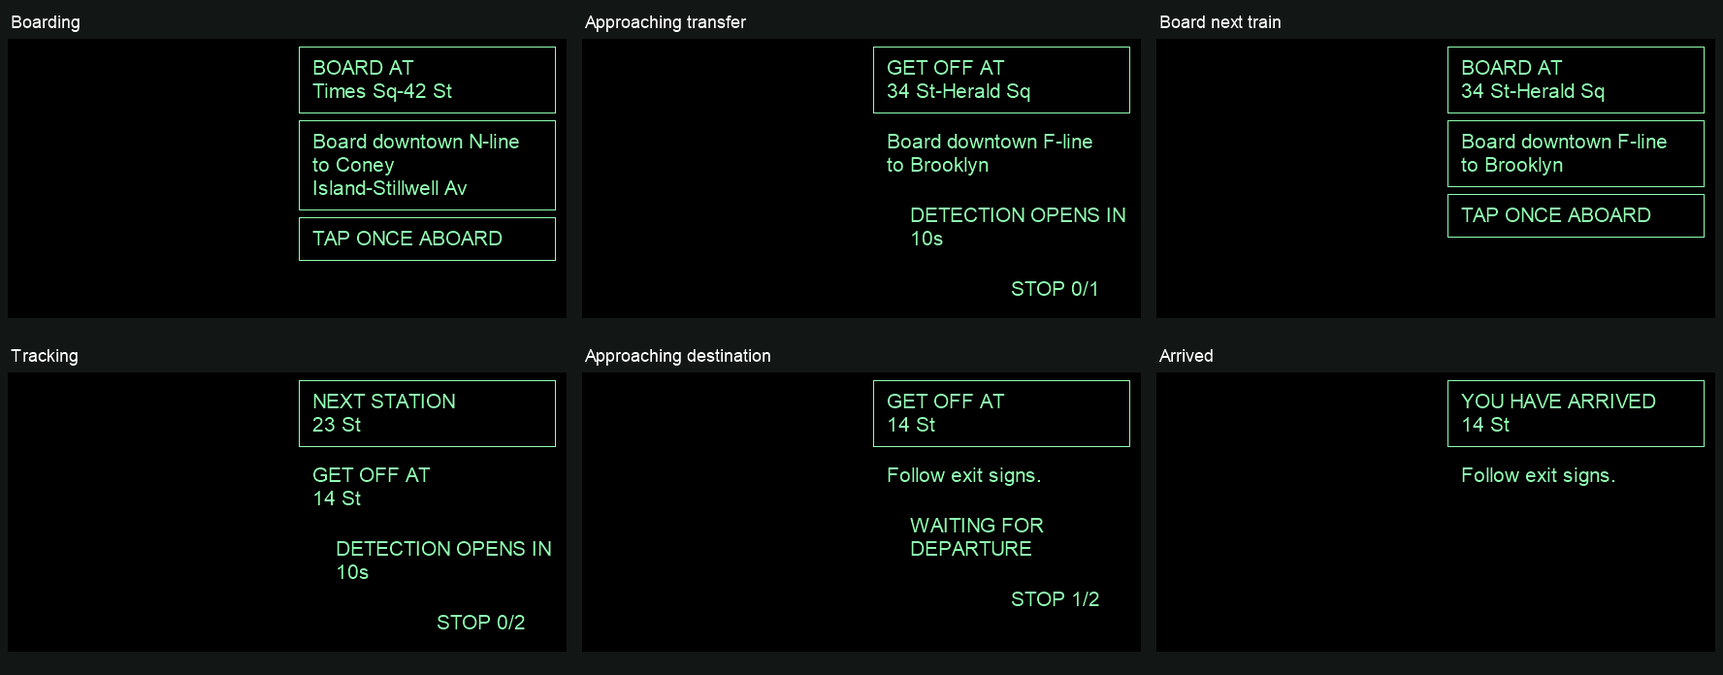
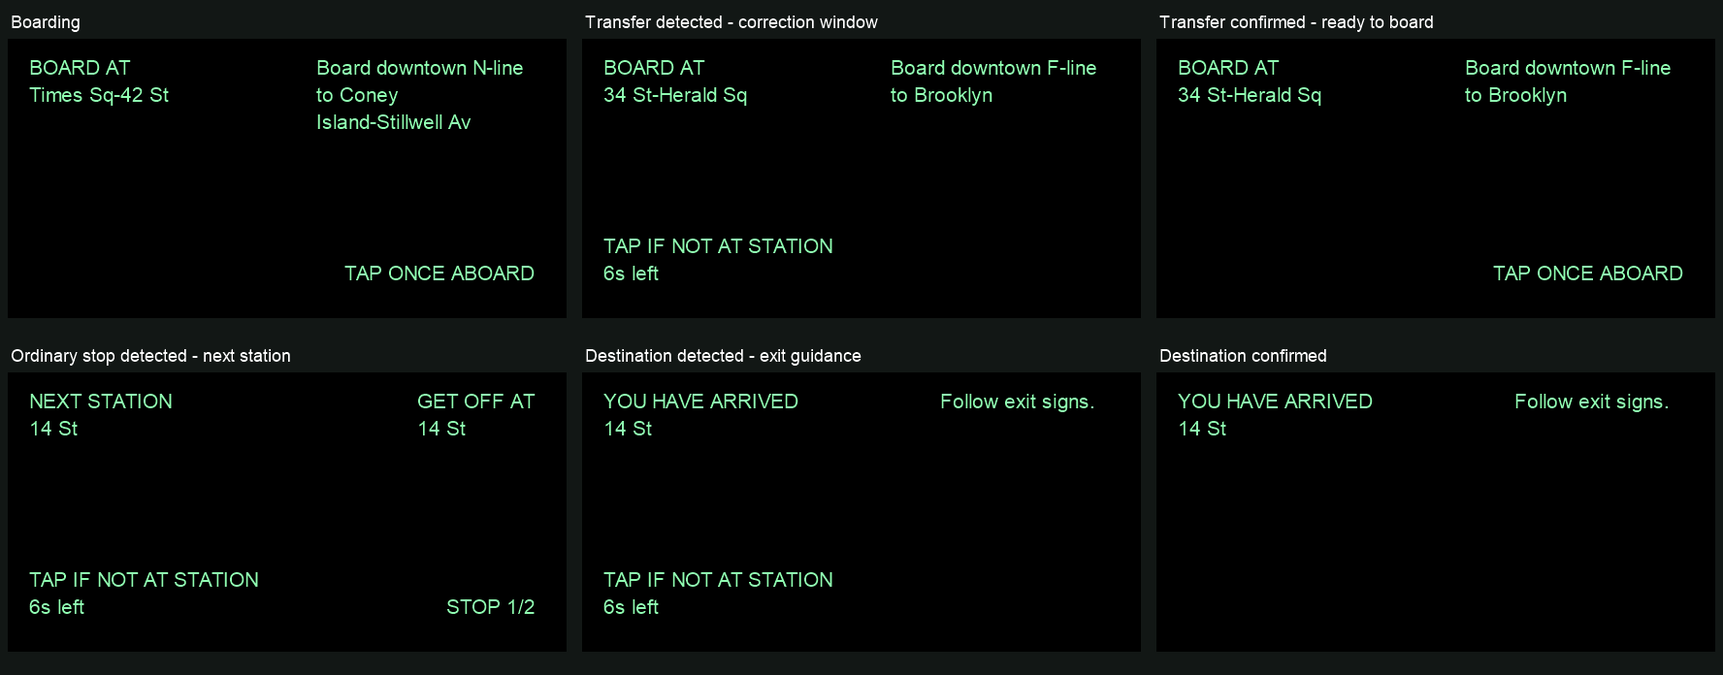
ui v.2

diff --git a/src/glasses-view.ts b/src/glasses-view.ts
@@ -1,5 +1,5 @@
 import type { StationTracker } from './station-tracker.ts'
-import { journeyView } from './journey-view.ts'
+import { journeyPresentation } from './journey-view.ts'
 
 export type GlassesPanel = {
   containerID: number; containerName: string; xPosition: number; yPosition: number
@@ -9,8 +9,22 @@ export type GlassesPanel = {
 
 // Native font metrics are not exposed by the SDK. Keep this line-height estimate
 // shared with the preview; hardware checks may require adjusting it.
-export const glassesSpacing = { padding: 10, lineHeight: 24, gap: 8, margin: 8 }
-type PanelSpec = { id: number; name: string; content: string; framed?: boolean; x?: number; width?: number; columns?: number; maxLines: number }
+export const glassesSpacing = { padding: 10, lineHeight: 28, margin: 8, verticalClearance: 12, horizontalClearance: 8 }
+type Corner = 'top-left' | 'top-right' | 'bottom-left' | 'bottom-right'
+
+let measurementContext: CanvasRenderingContext2D | null | undefined
+function textWidth(line: string) {
+  if (measurementContext === undefined) {
+    measurementContext = typeof document === 'undefined' ? null : document.createElement('canvas').getContext('2d')
+    if (measurementContext) measurementContext.font = '21px Arial'
+  }
+  // Normalize digits so a ticking countdown does not move as digit widths change.
+  const stable = line.replace(/\d/g, '0')
+  if (measurementContext) return measurementContext.measureText(stable).width
+  // Deterministic approximation for non-browser previews/tests. Native G2 glyph
+  // widths are unavailable; canvas measurements also need checking on hardware.
+  return [...stable].reduce((sum, c) => sum + (/\s/.test(c) ? 6 : /[ilI.,:;!'|]/.test(c) ? 6 : /[mwMW@%]/.test(c) ? 20 : /[A-Z]/.test(c) ? 15 : 12), 0)
+}
 
 function fitLines(text: string, columns: number, maxLines: number) {
   const lines = text.split('\n').flatMap(line => wrap(line, columns, 30).split('\n'))
@@ -20,27 +34,20 @@ function fitLines(text: string, columns: number, maxLines: number) {
   return kept
 }
 
-// Pack boxes vertically using wrapped content plus equal padding on every side.
-// Reserve space for station, status and count first; shorten supporting details
-// when a long instruction would otherwise extend beyond the physical canvas.
-function stack(specs: PanelSpec[]): GlassesPanel[] {
-  const { padding, lineHeight, gap, margin } = glassesSpacing
-  const lines = specs.map(s => fitLines(s.content, s.columns ?? 21, s.maxLines))
-  const availableLines = Math.floor((288 - 2 * margin - (specs.length - 1) * gap - specs.length * padding * 2) / lineHeight)
-  const detail = specs.findIndex(s => s.name === 'trip-detail')
-  const excess = lines.reduce((total, value) => total + value.length, 0) - availableLines
-  if (excess > 0 && detail >= 0) {
-    lines[detail] = fitLines(specs[detail].content, specs[detail].columns ?? 21, Math.max(1, lines[detail].length - excess))
-  }
-  let y = margin
-  return specs.map((s, i) => {
-    const height = lines[i].length * lineHeight + padding * 2
-    const p: GlassesPanel = { containerID: s.id, containerName: s.name, xPosition: s.x ?? 300, yPosition: y,
-      width: s.width ?? 264, height, borderWidth: s.framed ? 1 : 0, borderColor: s.framed ? 15 : 0,
-      borderRadius: s.framed ? 8 : 0, paddingLength: padding, isEventCapture: 0, content: lines[i].join('\n') }
-    y += height + gap
-    return p
-  })
+// Anchor the text block to an outer edge, rather than anchoring the top-left
+// corner of a large fixed region. Keep extra space for native font differences.
+function corner(id: number, name: string, anchor: Corner, content: string, maxLines?: number): GlassesPanel {
+  const top = anchor.startsWith('top'), right = anchor.endsWith('right')
+  const progress = name === 'trip-progress'
+  const { padding, lineHeight, margin, verticalClearance, horizontalClearance } = glassesSpacing
+  const lines = fitLines(content, progress ? 11 : 21, maxLines ?? (progress ? 1 : top ? 3 : 2))
+  const height = lines.length * lineHeight + 2 * padding + verticalClearance
+  const width = right ? Math.min(264, Math.ceil(Math.max(...lines.map(textWidth))) + 2 * padding + horizontalClearance) : 264
+  return { containerID: id, containerName: name,
+    xPosition: right ? 576 - margin - width : margin, yPosition: top ? margin : 288 - margin - height,
+    width, height,
+    borderWidth: 0, borderColor: 0, borderRadius: 0, paddingLength: glassesSpacing.padding, isEventCapture: 0,
+    content: lines.join('\n') }
 }
 export const glassesLayoutKey = (panels: GlassesPanel[]) => JSON.stringify(panels.map(({ content: _content, ...geometry }) => geometry))
 const seconds = (ms: number) => `${Math.max(0, Math.ceil(ms / 1000))}s`
@@ -61,48 +68,47 @@ function wrap(text: string, width: number, maxLines: number) {
 export function glassesView(tracker: StationTracker, now: number, diagnostic = 'IMU explorer\nLoad a route on your phone'): GlassesPanel[] {
   // Firmware can scroll an overflowing event-capture text container. Capture
   // gestures in an empty layer instead, keeping every visible label static.
-  const input: GlassesPanel = { containerID: 6, containerName: 'trip-input', xPosition: 300, yPosition: 0,
-    width: 264, height: 288, borderWidth: 0, borderColor: 0, borderRadius: 0, paddingLength: 0, isEventCapture: 1, content: ' ' }
+  const input: GlassesPanel = { containerID: 6, containerName: 'trip-input', xPosition: 0, yPosition: 0,
+    width: 576, height: 288, borderWidth: 0, borderColor: 0, borderRadius: 0, paddingLength: 0, isEventCapture: 1, content: ' ' }
   return [input, ...journeyPanels(tracker, now, diagnostic)]
 }
 
 function journeyPanels(tracker: StationTracker, now: number, diagnostic: string): GlassesPanel[] {
-  const journey = journeyView(tracker)
-  if (tracker.state === 'idle') return stack([
-    { id: 1, name: 'trip-station', content: `GLASSES IMU\n${diagnostic}`, maxLines: 3, framed: true },
-    { id: 3, name: 'trip-detail', content: 'Plan a journey on your phone.', maxLines: 4 },
-    { id: 4, name: 'trip-action', content: 'TAP: MARK RECORDING', maxLines: 1 },
-  ])
-  if (tracker.canArm) return stack([
-    { id: 1, name: 'trip-station', content: `BOARD AT\n${journey.boarding.station}`, maxLines: 3, framed: true },
-    { id: 3, name: 'trip-detail', content: journey.boarding.train, maxLines: 5, framed: true },
-    { id: 4, name: 'trip-action', content: 'TAP ONCE ABOARD', maxLines: 1, framed: true },
-  ])
-  if (tracker.state === 'complete') return stack([
-    { id: 1, name: 'trip-station', content: `YOU HAVE ARRIVED\n${tracker.route[tracker.stationIndex]?.name ?? ''}`, maxLines: 4, framed: true },
-    { id: 3, name: 'trip-detail', content: 'Follow exit signs.', maxLines: 1 },
-  ])
+  const display = journeyPresentation(tracker), journey = display.journey
+  const correction = `${fitLines(`TAP IF NOT AT ${display.current?.name ?? 'this station'}`, 21, 2).join('\n')}\n${seconds((tracker.candidateUntil ?? now) - now)} left`
+  if (tracker.state === 'idle') return [
+    corner(1, 'trip-station', 'top-left', `GLASSES IMU\n${diagnostic}`),
+    corner(3, 'trip-detail', 'top-right', 'Plan a journey on your phone.'),
+    corner(4, 'trip-action', 'bottom-right', 'TAP: MARK RECORDING'),
+  ]
+  if (display.canArm) return [
+    corner(1, 'trip-station', 'top-left', `BOARD AT\n${journey.boarding.station}`),
+    corner(3, 'trip-detail', 'top-right', journey.boarding.train),
+    corner(4, 'trip-action', display.pending ? 'bottom-left' : 'bottom-right', display.pending ? correction : 'TAP ONCE ABOARD', display.pending ? 3 : 2),
+  ]
+  if (display.state === 'complete') return [
+    corner(1, 'trip-station', 'top-left', `YOU HAVE ARRIVED\n${display.current?.name ?? ''}`),
+    corner(3, 'trip-detail', 'top-right', 'Follow exit signs.'),
+    ...(display.pending ? [corner(4, 'trip-action', 'bottom-left', correction, 3)] : []),
+  ]
   let action = ''
   switch (tracker.state) {
     case 'waiting-departure': action = 'WAITING FOR DEPARTURE'; break
     case 'travelling': action = `DETECTION OPENS IN ${seconds((tracker.watchAt ?? now) - now)}`; break
     case 'arrival-watch':
       action = tracker.brakingPhase === 'waiting for jolt' ? 'WAITING FOR JOLT'
-        : tracker.brakingPhase === 'allowing motion to settle' ? 'MOTION SETTLING' : 'WAITING FOR QUIET'; break
-    case 'candidate': action = `TAP TO VETO / ${seconds((tracker.candidateUntil ?? now) - now)}`; break
-    case 'cooldown': action = `${tracker.cooldownReason === 'Arrival vetoed' ? 'VETOED / ' : ''}RETRY IN ${seconds(tracker.retryAfter - now)}`; break
+        : tracker.brakingPhase === 'allowing motion to settle' ? 'MOTION SETTLING' : 'WAITING TO STOP'; break
+    case 'candidate': action = correction; break
+    case 'cooldown': action = `${tracker.cooldownReason === 'Arrival vetoed' ? 'RESET / ' : ''}RETRY IN ${seconds(tracker.retryAfter - now)}`; break
   }
-  if (tracker.sensing && now - tracker.lastValidAt > 1500) action = 'WAITING FOR PHONE MOTION'
-  const station = tracker.nextStop?.name ?? journey.destination
-  const title = journey.approaching ? 'GET OFF AT' : tracker.state === 'candidate' ? 'CONFIRM ARRIVAL' : 'NEXT STATION'
-  const detail = journey.approaching ? journey.instruction
-    : `${journey.transfer ? 'TRANSFER AT' : 'GET OFF AT'}\n${journey.destination}`
-  return stack([
-    { id: 1, name: 'trip-station', content: `${title}\n${station}`, maxLines: 3, framed: true },
-    { id: 3, name: 'trip-detail', content: detail, maxLines: journey.approaching ? 5 : 3 },
-    { id: 4, name: 'trip-action', content: action, maxLines: 2, x: 324, width: 240, columns: 20 },
-    { id: 5, name: 'trip-progress', content: `STOP ${journey.stopNumber}/${journey.stopTotal}`, maxLines: 1, x: 428, width: 136, columns: 10 },
-  ])
+  if (!display.pending && tracker.sensing && now - tracker.lastValidAt > 1500) action = 'WAITING FOR PHONE MOTION'
+  const station = display.nextStop?.name ?? journey.destination
+  return [
+    corner(1, 'trip-station', 'top-left', `NEXT STATION\n${station}`),
+    corner(3, 'trip-detail', 'top-right', `GET OFF AT\n${journey.destination}`),
+    corner(4, 'trip-action', 'bottom-left', action, display.pending ? 3 : 2),
+    corner(5, 'trip-progress', 'bottom-right', `STOP ${journey.stopNumber}/${journey.stopTotal}`),
+  ]
 }
 
 export function renderGlassesPreview(svg: SVGSVGElement, panels: GlassesPanel[]) {

diff --git a/src/trip-ui.ts b/src/trip-ui.ts
@@ -4,7 +4,6 @@ import { tripStatus } from './trip-status'
 import { mountPlannerControls } from './planner-ui'
 import { routeTextFromPlan } from './trip-plan'
 import { glassesView, renderGlassesPreview } from './glasses-view'
-import { journeyView } from './journey-view'
 
 // Fixed NYC demonstration; durations are simulated, not MTA schedules.
 const exampleRoute = (seconds: number) => `Times Sq-42 St | 0 | Board downtown N-line to Coney Island-Stillwell Av\n34 St-Herald Sq | ${seconds} | Board downtown F-line to Brooklyn | transfer\n23 St | ${seconds} | Stay on the F train\n14 St | ${seconds} | Follow exit signs`
@@ -31,15 +30,15 @@ export function mountTripControls(tracker: StationTracker, now: () => number, on
     <label>Braking sustained motion (seconds) <input id="trip-motionSeconds" type="number" min="0.1" max="10" step="0.1" value="${defaultSettings.motionSeconds}"></label>
     <label>Settling time (seconds) <input id="trip-settlingSeconds" type="number" min="0" max="3" step="0.1" value="${defaultSettings.settlingSeconds}"></label>
     <label>Quiet dwell (seconds) <input id="trip-dwellSeconds" type="number" min="0.2" max="30" step="0.05" value="${defaultSettings.dwellSeconds}"></label>
-    <label>Veto period (seconds) <input id="trip-vetoSeconds" type="number" min="1" max="30" step="1" value="${defaultSettings.vetoSeconds}"></label>
+    <label>Correction window (seconds) <input id="trip-vetoSeconds" type="number" min="1" max="30" step="1" value="${defaultSettings.vetoSeconds}"></label>
     </div></details><button id="trip-load">Load route, then tap glasses to start</button></fieldset>
-    <p class="hint">Arrival inputs stay blocked until 90% of the expected segment duration has elapsed. Then a jolt, settling, and quiet dwell can propose an arrival. Short demo: 0.35 m/s² for 0.4 seconds, 0.3 seconds to settle, then acceleration at or below 0.25 m/s² for 0.25 seconds. No recoil is required. During the veto countdown, shifting or other phone motion does not cancel the proposal; tap to veto. Quiet readings do not measure train speed.</p>
+    <p class="hint">Arrival inputs stay blocked until 90% of the expected segment duration has elapsed. Then a jolt, settling, and quiet dwell can propose an arrival. Short demo: 0.35 m/s² for 0.4 seconds, 0.3 seconds to settle, then acceleration at or below 0.25 m/s² for 0.25 seconds. No recoil is required. Directions advance immediately when a stop is detected. During the correction window, tap if not at station to restore your previous position. Shifting or other phone motion does not reset it. Quiet readings do not measure train speed.</p>
     <div class="controls"><button id="trip-arm" disabled>Start tracking (or tap glasses)</button><button id="trip-stop" disabled>Stop tracking</button>
-    <button id="trip-depart" disabled>Mark departure now</button><button id="trip-veto" disabled>Veto arrival</button></div>
+    <button id="trip-depart" disabled>Mark departure now</button><button id="trip-veto" disabled>Not at station</button></div>
     <p id="trip-error" role="alert"></p><p id="trip-start-hint" role="status"></p><p id="trip-status" role="status"></p><p id="trip-instruction" role="status"></p><p id="trip-timing"></p><p id="trip-evidence" class="hint"></p>
     <details open><summary>Glasses layout preview</summary><svg id="glasses-preview" viewBox="0 0 576 288" role="img" aria-label="Live glasses layout preview" style="display:block;width:100%;max-width:720px;border-radius:12px;margin:12px auto"></svg><p class="hint">Live layout preview. Font appearance may differ on G2.</p></details>
     <div class="controls"><label>Correct current station <select id="trip-correction" disabled></select></label><button id="trip-correct" disabled>Set current station</button></div>
-    <p class="hint">After a correction to a transfer station, board the next train and tap. At ordinary stops, wait for departure or use Mark departure now if already moving. Veto pauses detection for 10 seconds. Arrival instructions remain visible until the next departure. At the destination, the exit instruction stays on screen.</p>
+    <p class="hint">After a correction to a transfer station, board the next train and tap. At ordinary stops, wait for departure or use Mark departure now if already moving. Correcting a detected arrival pauses detection for 10 seconds. New boarding/exit directions appear immediately during the correction window. At the destination, the exit instruction stays on screen.</p>
     <details><summary>Detection log (also included in JSON export)</summary><ol id="trip-events"></ol></details>`
 
   let lastEvent: unknown
@@ -55,15 +54,16 @@ export function mountTripControls(tracker: StationTracker, now: () => number, on
     if (diagnostic !== undefined) lastDiagnostic = diagnostic
     const t = now(), active = tracker.active
     const view = tripStatus(tracker, t)
-    const journey = journeyView(tracker)
+    const display = view.presentation, journey = display.journey
     renderGlassesPreview(document.getElementById('glasses-preview')! as unknown as SVGSVGElement, glassesView(tracker, t, lastDiagnostic))
-    el('trip-start-hint').textContent = tracker.state === 'waiting-boarding' ? 'TRANSFER: board the next train, then SINGLE-TAP THE GLASSES to resume tracking. Walking between trains is ignored.' : tracker.state === 'ready' ? 'Board your train, then SINGLE-TAP THE GLASSES to begin tracking.' : tracker.state === 'idle' ? 'First load your route. Then board your train and single-tap the glasses.' : ''
+    el('trip-start-hint').textContent = display.pending ? 'Arrival detected: directions have advanced. Tap if not at this station to restore the previous position. Wait for the correction window to finish before tapping to board the next train.' : tracker.state === 'waiting-boarding' ? 'TRANSFER: board the next train, then SINGLE-TAP THE GLASSES to resume tracking. Walking between trains is ignored.' : tracker.state === 'ready' ? 'Board your train, then SINGLE-TAP THE GLASSES to begin tracking.' : tracker.state === 'idle' ? 'First load your route. Then board your train and single-tap the glasses.' : ''
     el<HTMLFieldSetElement>('trip-config').disabled = active
     el<HTMLButtonElement>('trip-arm').disabled = !tracker.canArm
     el('trip-arm').textContent = tracker.state === 'waiting-boarding' ? 'Boarded next train: start tracking (or tap glasses)' : 'Start tracking (or tap glasses)'
     el<HTMLButtonElement>('trip-stop').disabled = !active
     el<HTMLButtonElement>('trip-depart').disabled = tracker.state !== 'waiting-departure'
     el<HTMLButtonElement>('trip-veto').disabled = tracker.state !== 'candidate'
+    el('trip-veto').textContent = display.pending ? `Not at ${display.current?.name ?? 'this station'}` : 'Not at station'
     el<HTMLButtonElement>('trip-correct').disabled = !tracker.route.length
     const select = el<HTMLSelectElement>('trip-correction')
     select.disabled = !tracker.route.length
@@ -71,11 +71,11 @@ export function mountTripControls(tracker: StationTracker, now: () => number, on
       select.replaceChildren(...tracker.route.map((s, i) => new Option(`${i + 1}. ${s.name}`, String(i))))
       lastRoute = tracker.route
     }
-    const current = tracker.route[tracker.stationIndex]?.name
-    el('trip-status').textContent = `${view.status}${current ? ` | Current: ${current} (${tracker.stationIndex + 1}/${tracker.route.length})` : ''}${tracker.nextStop ? ` | Next: ${tracker.nextStop.name}` : ''}`
+    const current = display.current?.name
+    el('trip-status').textContent = `${view.status}${current ? ` | ${display.pending ? 'Detected station' : 'Current'}: ${current} (${display.stationIndex + 1}/${tracker.route.length})` : ''}${display.nextStop ? ` | Next: ${display.nextStop.name}` : ''}`
     el('trip-timing').textContent = view.timing
-    const instruction = tracker.state === 'complete' ? 'Follow exit signs.'
-      : tracker.sensing && journey.approaching ? `Get off at ${journey.destination}. ${journey.instruction}` : view.instruction
+    const instruction = display.state === 'complete' ? 'Follow exit signs.'
+      : display.canArm ? view.instruction : tracker.sensing ? `Get off at ${journey.destination}.` : null
     el('trip-instruction').textContent = instruction ? `Instruction: ${instruction}` : ''
     el('trip-instruction').hidden = !instruction
     el('trip-evidence').textContent = `${tracker.sensing && t - tracker.lastValidAt > 1500 ? 'Waiting for fresh phone linear acceleration. ' : ''}${tracker.motionWindowMs} ms mean acceleration: ${tracker.meanMagnitude?.toFixed(3) ?? '--'} m/s²; direction consistency: ${tracker.coherence?.toFixed(2) ?? '--'} (motion needs ≥ 0.50). Glasses IMU is recorded as context; it does not drive the count.`

diff --git a/src/trip-status.ts b/src/trip-status.ts
@@ -1,4 +1,5 @@
 import type { StationTracker } from './station-tracker.ts'
+import { journeyPresentation } from './journey-view.ts'
 
 const seconds = (ms: number) => `${Math.max(0, Math.ceil(ms / 1000))} s`
 
@@ -19,6 +20,7 @@ function instructionLines(instruction: string | null) {
 
 // Both screens use the same phase and deadline. ETA is never the input-block timer.
 export function tripStatus(tracker: StationTracker, now: number) {
+  const presentation = journeyPresentation(tracker)
   let status: string
   let timing: string
   switch (tracker.state) {
@@ -34,25 +36,25 @@ export function tripStatus(tracker: StationTracker, now: number) {
       status = 'Arrival inputs blocked'
       timing = `Detection opens in ${seconds((tracker.watchAt ?? now) - now)}`; break
     case 'arrival-watch':
-      status = tracker.brakingPhase
+      status = tracker.brakingPhase === 'waiting for quiet dwell' ? 'waiting to stop' : tracker.brakingPhase
       timing = 'Arrival detection OPEN'; break
     case 'candidate':
-      status = 'Possible arrival'
-      timing = `Count in ${seconds((tracker.candidateUntil ?? now) - now)}; tap to VETO`; break
+      status = 'Arrival detected'
+      timing = `Tap if not at ${presentation.current?.name ?? 'this station'}; ${seconds((tracker.candidateUntil ?? now) - now)} left`; break
     case 'cooldown':
-      status = tracker.cooldownReason ?? 'Arrival detection paused'
+      status = tracker.cooldownReason === 'Arrival vetoed' ? 'Station correction applied' : tracker.cooldownReason ?? 'Arrival detection paused'
       timing = `Detection paused: ${seconds(tracker.retryAfter - now)}`; break
     case 'complete':
       status = 'Destination reached'; timing = `Station ${tracker.stationIndex + 1}/${tracker.route.length}`; break
   }
-  const current = tracker.route[tracker.stationIndex]?.name ?? ''
-  const heading = tracker.state === 'candidate'
-    ? tracker.nextStop?.name ?? ''
-    : `${current.slice(0, 20)}${tracker.nextStop ? ` -> ${tracker.nextStop.name.slice(0, 20)}` : ''}`
+  const current = presentation.current?.name ?? ''
+  const heading = `${current.slice(0, 20)}${presentation.nextStop ? ` -> ${presentation.nextStop.name.slice(0, 20)}` : ''}`
   const sensor = tracker.sensing && now - tracker.lastValidAt > 1500 ? 'Phone motion unavailable. ' : ''
-  const instruction = tracker.currentInstruction
+  const instruction = presentation.state === 'complete' ? 'Follow exit signs.'
+    : presentation.canArm ? presentation.journey.boarding.train : tracker.currentInstruction
   // Keep the full instruction on the phone; limit the glasses to three short lines.
   return {
+    presentation,
     status,
     instruction,
     timing: `${sensor}${timing}`,

diff --git a/src/journey-view.ts b/src/journey-view.ts
@@ -3,7 +3,7 @@ import type { SubwayLeg } from './trip-plan.ts'
 
 // Tracker indices omit transfer walks and the next train's boarding stop.
 // Map ride boundaries by counted arrivals, rather than matching station names.
-export function journeyView(tracker: StationTracker) {
+export function journeyView(tracker: Pick<StationTracker, 'route' | 'tripPlan' | 'stationIndex'>) {
   let start = 0
   for (let i = 1; i <= tracker.stationIndex; i++) if (tracker.route[i]?.transfer) start = i
   let end = tracker.route.length - 1
@@ -31,5 +31,21 @@ export function journeyView(tracker: StationTracker) {
     approaching: tracker.stationIndex + 1 === end,
     // Count completed station-to-station segments, excluding the boarding stop.
     stopNumber: tracker.stationIndex - start, stopTotal: end - start,
+  }
+}
+
+// Show the detected arrival immediately while the detector keeps its last
+// confirmed position until the correction window ends. Never mutate the tracker
+// here: a tap or sensor gap simply removes this preview and restores that view.
+export function journeyPresentation(tracker: StationTracker) {
+  const pending = tracker.state === 'candidate' && !!tracker.nextStop
+  const stationIndex = tracker.stationIndex + (pending ? 1 : 0)
+  const current = tracker.route[stationIndex]
+  const state = !pending ? tracker.state : stationIndex === tracker.route.length - 1 ? 'complete'
+    : current.transfer ? 'waiting-boarding' : 'waiting-departure'
+  return {
+    pending, state, stationIndex, current, nextStop: tracker.route[stationIndex + 1],
+    canArm: state === 'ready' || state === 'waiting-boarding',
+    journey: journeyView({ route: tracker.route, tripPlan: tracker.tripPlan, stationIndex }),
   }
 }

diff --git a/src/station-tracker.ts b/src/station-tracker.ts
@@ -17,7 +17,7 @@ export const defaultSettings: TrackerSettings = {
 export const demoSettings: TrackerSettings = {
   ...defaultSettings,
   windowMs: 250, motionThreshold: 0.35, quietThreshold: 0.25,
-  motionSeconds: 0.4, dwellSeconds: 0.25, vetoSeconds: 6,
+  motionSeconds: 0.4, dwellSeconds: 0.25, vetoSeconds: 10,
   settlingSeconds: 0.3,
 }
 export type TripState = 'idle' | 'ready' | 'waiting-boarding' | 'waiting-departure' | 'travelling' | 'arrival-watch' | 'candidate' | 'cooldown' | 'complete'

diff --git a/dist/index.html b/dist/index.html
@@ -14,7 +14,7 @@
         overscroll-behavior: none;
       }
     </style>
-    <script type="module" crossorigin src="/assets/index-DqnM_ZDA.js"></script>
+    <script type="module" crossorigin src="/assets/index-Bs5WKt8f.js"></script>
   </head>
   <body>
     <div id="app"></div>

diff --git a/README.md b/README.md
@@ -14,9 +14,9 @@ Completed in the current prototype:
 - Optional station instructions for boarding, staying on a train, transferring, and exiting. Full text appears on the phone, with a short version on the glasses. Instructions persist until the next departure; destination instructions stay visible.
 - One tracking loop per train ride: ordinary stops continue automatically; confirmed transfer arrivals pause detection until the rider boards the next train and taps again. Walking between trains cannot start a segment timer.
 - Tap-to-start tracking, phone-motion departure detection, and a segment timer that opens arrival detection after `floor(90% × segment duration)`.
-- Arrival proposals based on phone acceleration, followed by a veto countdown. Phone movement during that countdown does not cancel the proposal; a single tap vetoes it. Missing phone sensor samples cancel it because the app cannot confirm tracking continued.
+- Arrival proposals based on phone acceleration, followed by a correction countdown. Phone movement during that countdown does not cancel the proposal; a single tap vetoes it. Missing phone sensor samples cancel it because the app cannot confirm tracking continued.
 - Glasses and phone status messages for blocked detection, arrival watching, proposed arrivals, veto cooldowns, departure waiting, and trip completion.
-- A minimal G2 display confined to the right half, with a station card and stacked countdown and stop count. Transfer/exit instructions appear when needed; routine sensing explanations are omitted. A live layout preview is available on the phone; this visual revision still needs a physical glasses check.
+- A minimal, borderless native-text G2 display anchored in four corners. Station information sits at the top, detection status at bottom left, and ride count at bottom right. Boarding and destination screens show only relevant corners. The center stays clear; physical font and overflow checks remain pending.
 - Manual station correction and manual departure controls for recovering during a demo.
 - Timestamped detector events and current route/state/settings in the JSON export.
 - Versioned prepared-trip JSON: ordered walking/train legs, line/headsign, intermediate stations, per-station schedule estimates, and source provenance. JSON can be imported and loaded into the existing transfer loop.
@@ -66,7 +66,7 @@ On launch, a NYC demo is preloaded and waits for your boarding tap: **Times Sq-4
 2. **Board the first train and single-tap the glasses to begin tracking**, or press **Start tracking (or tap glasses)** on the phone. Motion does not start tracking before your tap. Arming starts raw recording automatically; the travel timer waits for departure motion. Keep the phone secured in one position and the page in the foreground. G2 IMU can also be started for comparison; its readings do not control the station count.
 3. Sustained phone linear acceleration starts the segment timer. **Mark departure now** is an explicit recovery option if the detector misses your departure.
 4. Arrival inputs remain blocked until `floor(90% × expected segment duration)` after departure. A 12-second demo segment opens at 10 seconds. Both screens show **Arrival inputs blocked / Detection opens in ...** until that gate opens, then **Arrival detection OPEN / waiting for jolt**. This countdown measures the input-block period. The expected time may pass without advancing the station.
-5. After the window opens, a coherent **jolt**, a settling interval, and quiet dwell produces a proposed arrival. Recoil is not required. The demo requires a 250 ms mean of at least 0.35 m/s² for 0.4 seconds, allows 0.3 seconds to settle after the detected jolt, then checks for 0.25 seconds at or below 0.25 m/s². Normal settings use 0.5 seconds to settle and 3 seconds of quiet. The proposal stays on the glasses for an adjustable veto period (8 seconds normally, 6 seconds in demo). Single-tap the glasses or press **Veto arrival** to cancel. Phone motion during the veto period does not cancel the proposal, allowing for the rider shifting in their seat. A sensor gap cancels the proposal and requires a new jolt. Instructions for the proposed stop remain hidden until the arrival is confirmed.
+5. After the window opens, a coherent **jolt**, a settling interval, and quiet dwell produces a proposed arrival. Recoil is not required. The demo requires a 250 ms mean of at least 0.35 m/s² for 0.4 seconds, allows 0.3 seconds to settle after the detected jolt, then checks for 0.25 seconds at or below 0.25 m/s². Normal settings use 0.5 seconds to settle and 3 seconds of quiet. The proposal stays on the glasses for an adjustable correction window (8 seconds normally, 6 seconds in demo). Single-tap the glasses or press **Not at station** to cancel. Phone motion during the correction window does not cancel the proposal, allowing for the rider shifting in their seat. A sensor gap cancels the proposal and requires a new jolt. The next-station, transfer, or exit screen appears immediately when an arrival is detected; tapping Not at station restores the previous view.
 6. Successful expiry advances the current station once and shows its instruction. At an ordinary stop, the app waits for departure and continues automatically. At a transfer stop, it shows **Transfer: tracking paused** and ignores detector input until you board the next train and tap. That tap arms departure detection; it does not start the timer itself. At the destination, tracking ends and the exit instruction remains visible. Use **Set current station** to fix a missed/extra count; corrections respect transfer markers. If already aboard and armed, **Mark departure now** can recover a missed departure. An explicit veto enters a 10-second cooldown and requires fresh arrival evidence afterward.
 7. Stop recording and export **JSON** for raw streams plus the `tripTracking` route, settings, state and timestamped evidence/event log. CSV retains only sensor samples. **Stop tracking** stops the counter but leaves diagnostic recording running until you stop it. Clearing the diagnostic recording does not clear the trip log; reload only after exporting.
 
@@ -85,7 +85,7 @@ Departure has its own settings: a 500 ms average of phone gravity-removed accele
 
 Either sign on any phone axis can provide the initial jolt. Keep the phone secured relative to your body. Recoil and other settling movements can happen, but no direction reversal is required. Continued motion prevents quiet dwell; a missing sensor stream resets evidence. A jolt that does not settle into quiet expires after the greater of 12 seconds or the configured settling + dwell + 4 seconds. The glasses and phone show the current phase; JSON logs include `braking-jolt`, expiry, and arrival-candidate evidence.
 
-For an end-to-end trial, use the short demo: simulate departure, a jolt before the 10-second gate that should be ignored, a later lean/jolt, then stillness through settling and dwell. Shift the phone during the veto countdown to confirm the proposal remains pending. Repeat with an explicit veto, a delayed arrival, and a second segment. Labels only annotate recordings; changing a label never triggers detection. Missing linear-acceleration channels, sample gaps over 500 ms, and page hiding reset accumulated evidence; missing events never substitute for quiet. Screen-lock/background operation remains unsupported for this experiment.
+For an end-to-end trial, use the short demo: simulate departure, a jolt before the 10-second gate that should be ignored, a later lean/jolt, then stillness through settling and dwell. Shift the phone during the correction countdown to confirm the proposal remains pending. Repeat with an explicit veto, a delayed arrival, and a second segment. Labels only annotate recordings; changing a label never triggers detection. Missing linear-acceleration channels, sample gaps over 500 ms, and page hiding reset accumulated evidence; missing events never substitute for quiet. Screen-lock/background operation remains unsupported for this experiment.
 
 The pure state machine is covered by `dev/station-tracker.test.mjs`; with Node 24 run `node --test dev/station-tracker.test.mjs`.
 
@@ -97,22 +97,22 @@ The pure state machine is covered by `dev/station-tracker.test.mjs`; with Node 2
 - A comparison plot of G2 vector magnitude and phone linear / gravity-inclusive acceleration magnitude. It compares receipt timing and magnitude, not direction: the devices use different axis frames. Missing browser fields remain null.
 - Measured WebView receipt rate and largest interval within the plot window. P100-P1000 are protocol pacing selections, not asserted Hz. Stop the stream before changing pace.
 - Optional subtraction of a captured two-second mean for visual comparison. This is a display offset, not gravity removal or calibrated acceleration. It never changes raw exports.
-- A live glasses-layout preview. G2 switches between boarding (3 visible containers), tracking/approach (4), and destination (2), plus one empty gesture-capture container on every page, confined to the right half. Countdown and ride stop count are stacked toward the right edge. Writes are serialized, and phase changes discard unsent obsolete content. Trip detection and tap meanings are unchanged.
+- A live glasses-layout preview. Boarding uses 3 visible containers, tracking/approach 4, and destination 2, plus one empty gesture layer. Writes are serialized, and phase changes discard unsent obsolete content. Detection and tap meanings are unchanged.
 - Explicit stale-stream feedback. After reconnect/resume use Stop/Start if needed; sensor continuity is not assumed.
 
 Missing/nonfinite channels remain null in JSON and blank in CSV, not invented zeros. Valid zero values are retained. The SDK may normalize the native payload; these are SDK-delivered channels, not direct access to sensor registers. Phone browser motion events require a secure context in many implementations, may require host permission, and may be missing from this WebView. The normal QR command below serves plain HTTP from the laptop LAN, so Android may withhold phone sensor readings even though the glasses IMU works. The dashboard reports secure-context status and unavailable fields. Foreground events do not establish lock-screen continuity.
 
 ## Glasses layout
 
-The G2 page uses the right half of its 576 x 288 canvas, with a bordered station card and unframed supporting text. The left half stays unlit. The phone preview uses the same coordinates and content; native font rendering can differ.
+The G2 page uses borderless native text in four corners of its 576 x 288 canvas. Top left shows the boarding/next station; top right shows the train only while boarding, or GET OFF AT and the current ride endpoint while tracking. During tracking, bottom left shows detection/correction status and bottom right shows ride stop count. Boarding shows Tap once aboard at bottom right. The destination shows You have arrived at top left and Follow exit signs at top right. Unused corners and the center stay clear.
 
-All visible containers use 10-pixel padding. Heights are calculated from wrapped line count using a 24-pixel line-height estimate plus padding, and containers stack with 8-pixel gaps and outer margins. The height updates automatically when the text changes its line count. When long content exceeds the available space, supporting instructions are shortened with an ellipsis while station, detection status, and count stay visible; full route instructions remain on the phone. Adjust the shared `glassesSpacing` constants in `src/glasses-view.ts` if hardware font measurements require it. The empty gesture layer has no padding and does not resize.
+Visible containers retain 10-pixel padding and 8-pixel outer margins. Text blocks anchor to the outer corners: top blocks grow downward, right blocks grow leftward, and bottom blocks grow upward. Right-block widths use browser canvas text measurements matching the preview font, plus safety clearance; native G2 font metrics are unavailable, so this is approximate. Heights use a 28-pixel line estimate plus padding and 12 pixels of extra clearance. Top content is limited to 3 lines, detection status to 2 (station correction prompts may use 3), and stop count to 1. Long text ends with an ellipsis; full instructions remain on the phone. Geometry changes rebuild the page; ordinary same-size countdown updates use text updates. Physical font fit and firmware scrollbars still need a hardware check.
 
-Boarding shows the station, line/direction, and **Tap once aboard**. The tap arms the same departure detector and opens tracking: next station, ride endpoint, detection status, and **STOP completed/total** for this train ride (boarding starts at 0). As soon as the next stop is the transfer or destination, **Get off at** replaces the next-station widget and transfer/exit guidance appears. One-stop rides enter this layout immediately. A proposed arrival still offers the veto countdown; only a confirmed transfer opens the next boarding screen and resets the ride count. The destination screen says **You have arrived** and **Follow exit signs**.
+Boarding shows the station, train/direction, and Tap once aboard. After the tap, train instructions disappear. While riding, top left shows NEXT STATION and top right shows GET OFF AT with the current ride endpoint. When both corners name the same station, the next stop is the endpoint. Once stopping is detected, both glasses and phone immediately preview the next state: ordinary stops show the following station and incremented ride count, transfers show the next boarding station/train, and the destination shows arrival/exit guidance. TAP IF NOT AT [detected station name] and the remaining seconds replace the normal status during the correction window. A tap restores the previous position and starts the existing 10-second cooldown. No tap finalizes the arrival after the configured window (6 seconds in the demo, 8 normally), with fresh sensor data still required. Transfer boarding taps stay disabled during the window; Tap once aboard returns after confirmation. A sensor gap cancels the preview. The underlying detector position commits only once; internal candidate/vetoSeconds/veto names are retained for export compatibility.
 
 Live plans use the supplied train destination/headsign for direction; they do not invent uptown/downtown labels or platform/track numbers. Transfer walks use the next train's actual boarding station, which can differ from the station where you got off. Long text is shortened on the glasses; full route instructions remain on the phone. The built-in NYC demo supplies explicit downtown directions.
 
-Close and reopen after updating the app. Subsequent layout transitions happen automatically with `rebuildPageContainer`; ordinary countdown updates use `textContainerUpgrade`. An empty container behind the visible content captures gestures on each page, preserving single-tap start/veto and double-tap system exit. Visible text does not capture gestures, avoiding firmware scrolling on the boarding tap prompt. The train instruction and boarding tap prompt each have their own border. Rebuilds are serialized and failed writes are retried; display flicker and timing still need a physical G2 check.
+Close and reopen after updating the app. Subsequent layout transitions happen automatically with `rebuildPageContainer`; ordinary countdown updates use `textContainerUpgrade`. An empty container behind the visible content captures gestures on each page, preserving single-tap start/correction and double-tap system exit. Visible text does not capture gestures; all borders are removed. This does not guarantee firmware scrollbar behavior on every host version. Rebuilds are serialized and failed writes are retried; display flicker and timing still need a physical G2 check.
 
 The phone's live glasses preview reflects the current journey layout. [Illustrative journey screens](docs/glasses-layout-preview.png) use the NYC demo; fonts approximate the device and these are not hardware captures. Relevant checks: `node --test dev/glasses-view.test.mjs dev/station-tracker.test.mjs dev/routing.test.mjs`.
 
